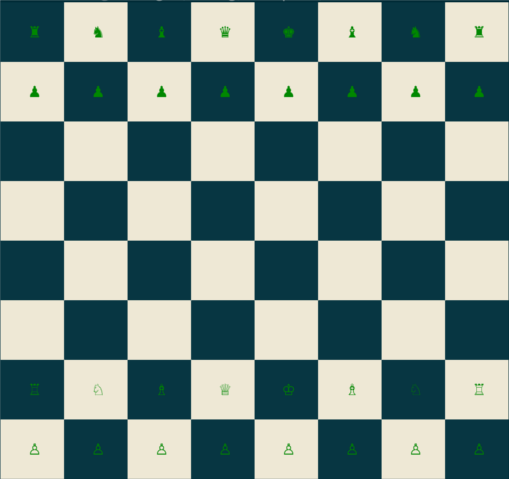
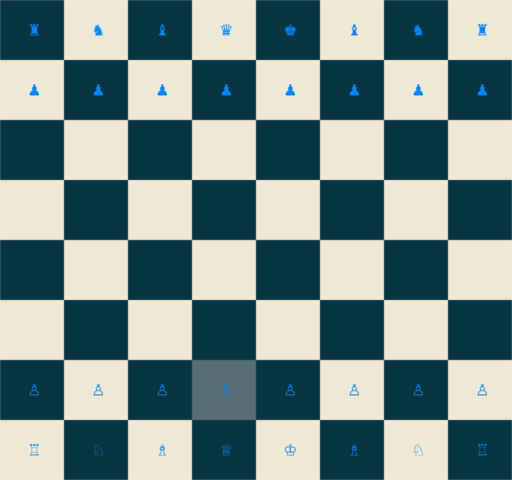
Update chess screenshot, link to full repo

diff --git a/README.md b/README.md
@@ -37,7 +37,7 @@ fn main() {
         .iter()
         .enumerate()
 		.map(|(i, x)| {
-            let ansi_fg = 28;
+            let ansi_fg = 33;
 			let mut ansi_bg = 0;
 		    if i % 2 + (i / 8) % 2 == 1 {
 			    ansi_bg = 7;
@@ -47,10 +47,13 @@ fn main() {
         .collect::<Vec<_>>();
     let data = matrix::Matrix::new(8, board);
     let display = MatrixDisplay::new(format, data);
+	display.cell_at_cursor_position((13, 6)).color.bg = 10;
     display.print(&mut std::io::stdout(), &style::BordersStyle::None);
 }
 ```
 ![alt tag](https://github.com/pierrechevalier83/matrix_display/blob/master/screenshots/chess.png)
+
+For a working version of the game, see [chess-rs](https://github.com/pierrechevalier83/chess-rs)
 
 Example: visualising a 2048 game
 --------------------------------
